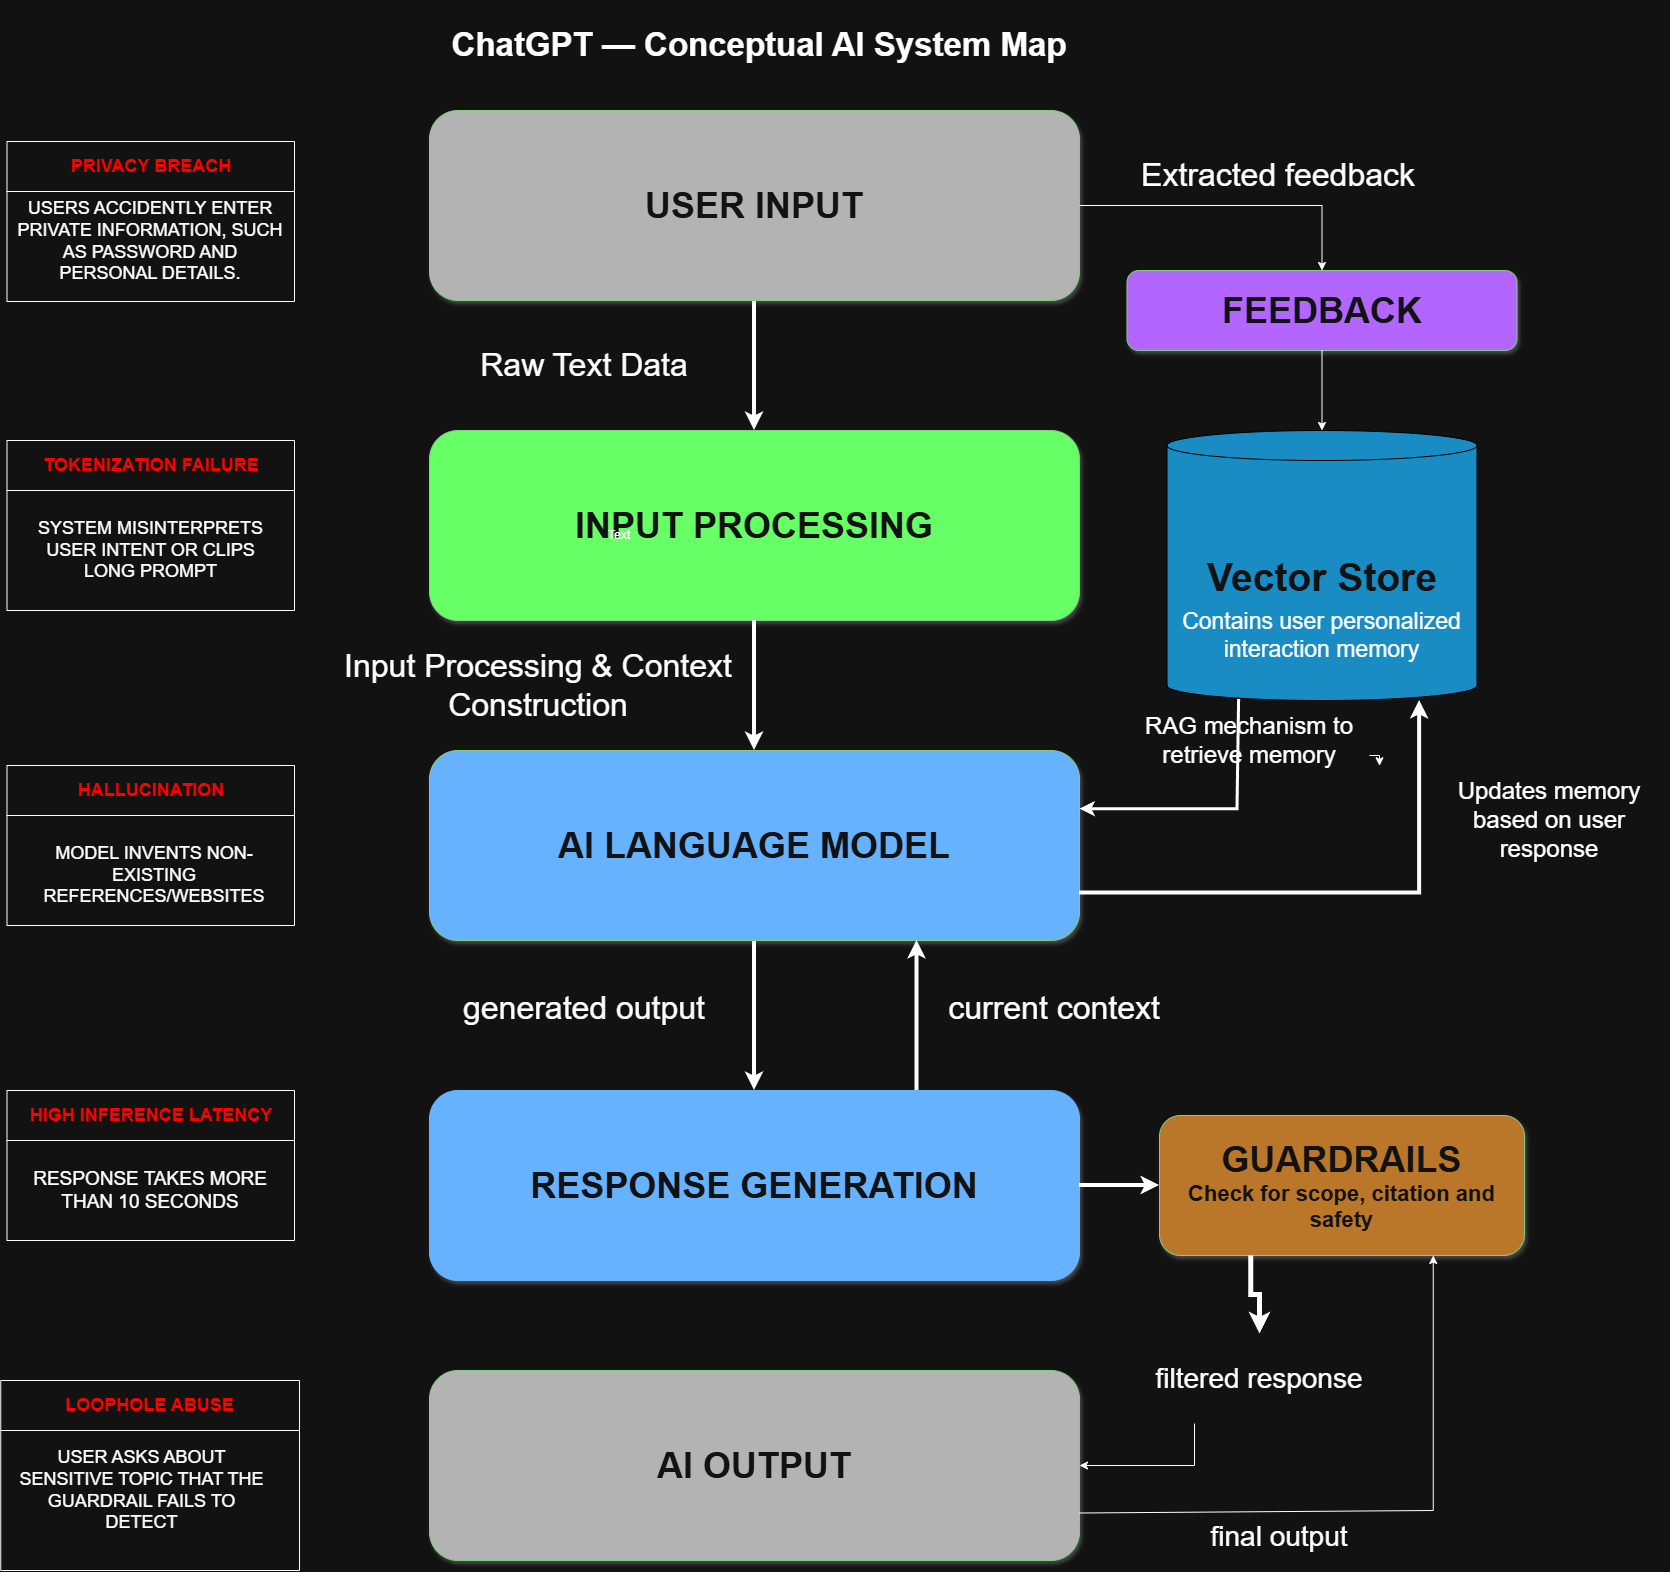
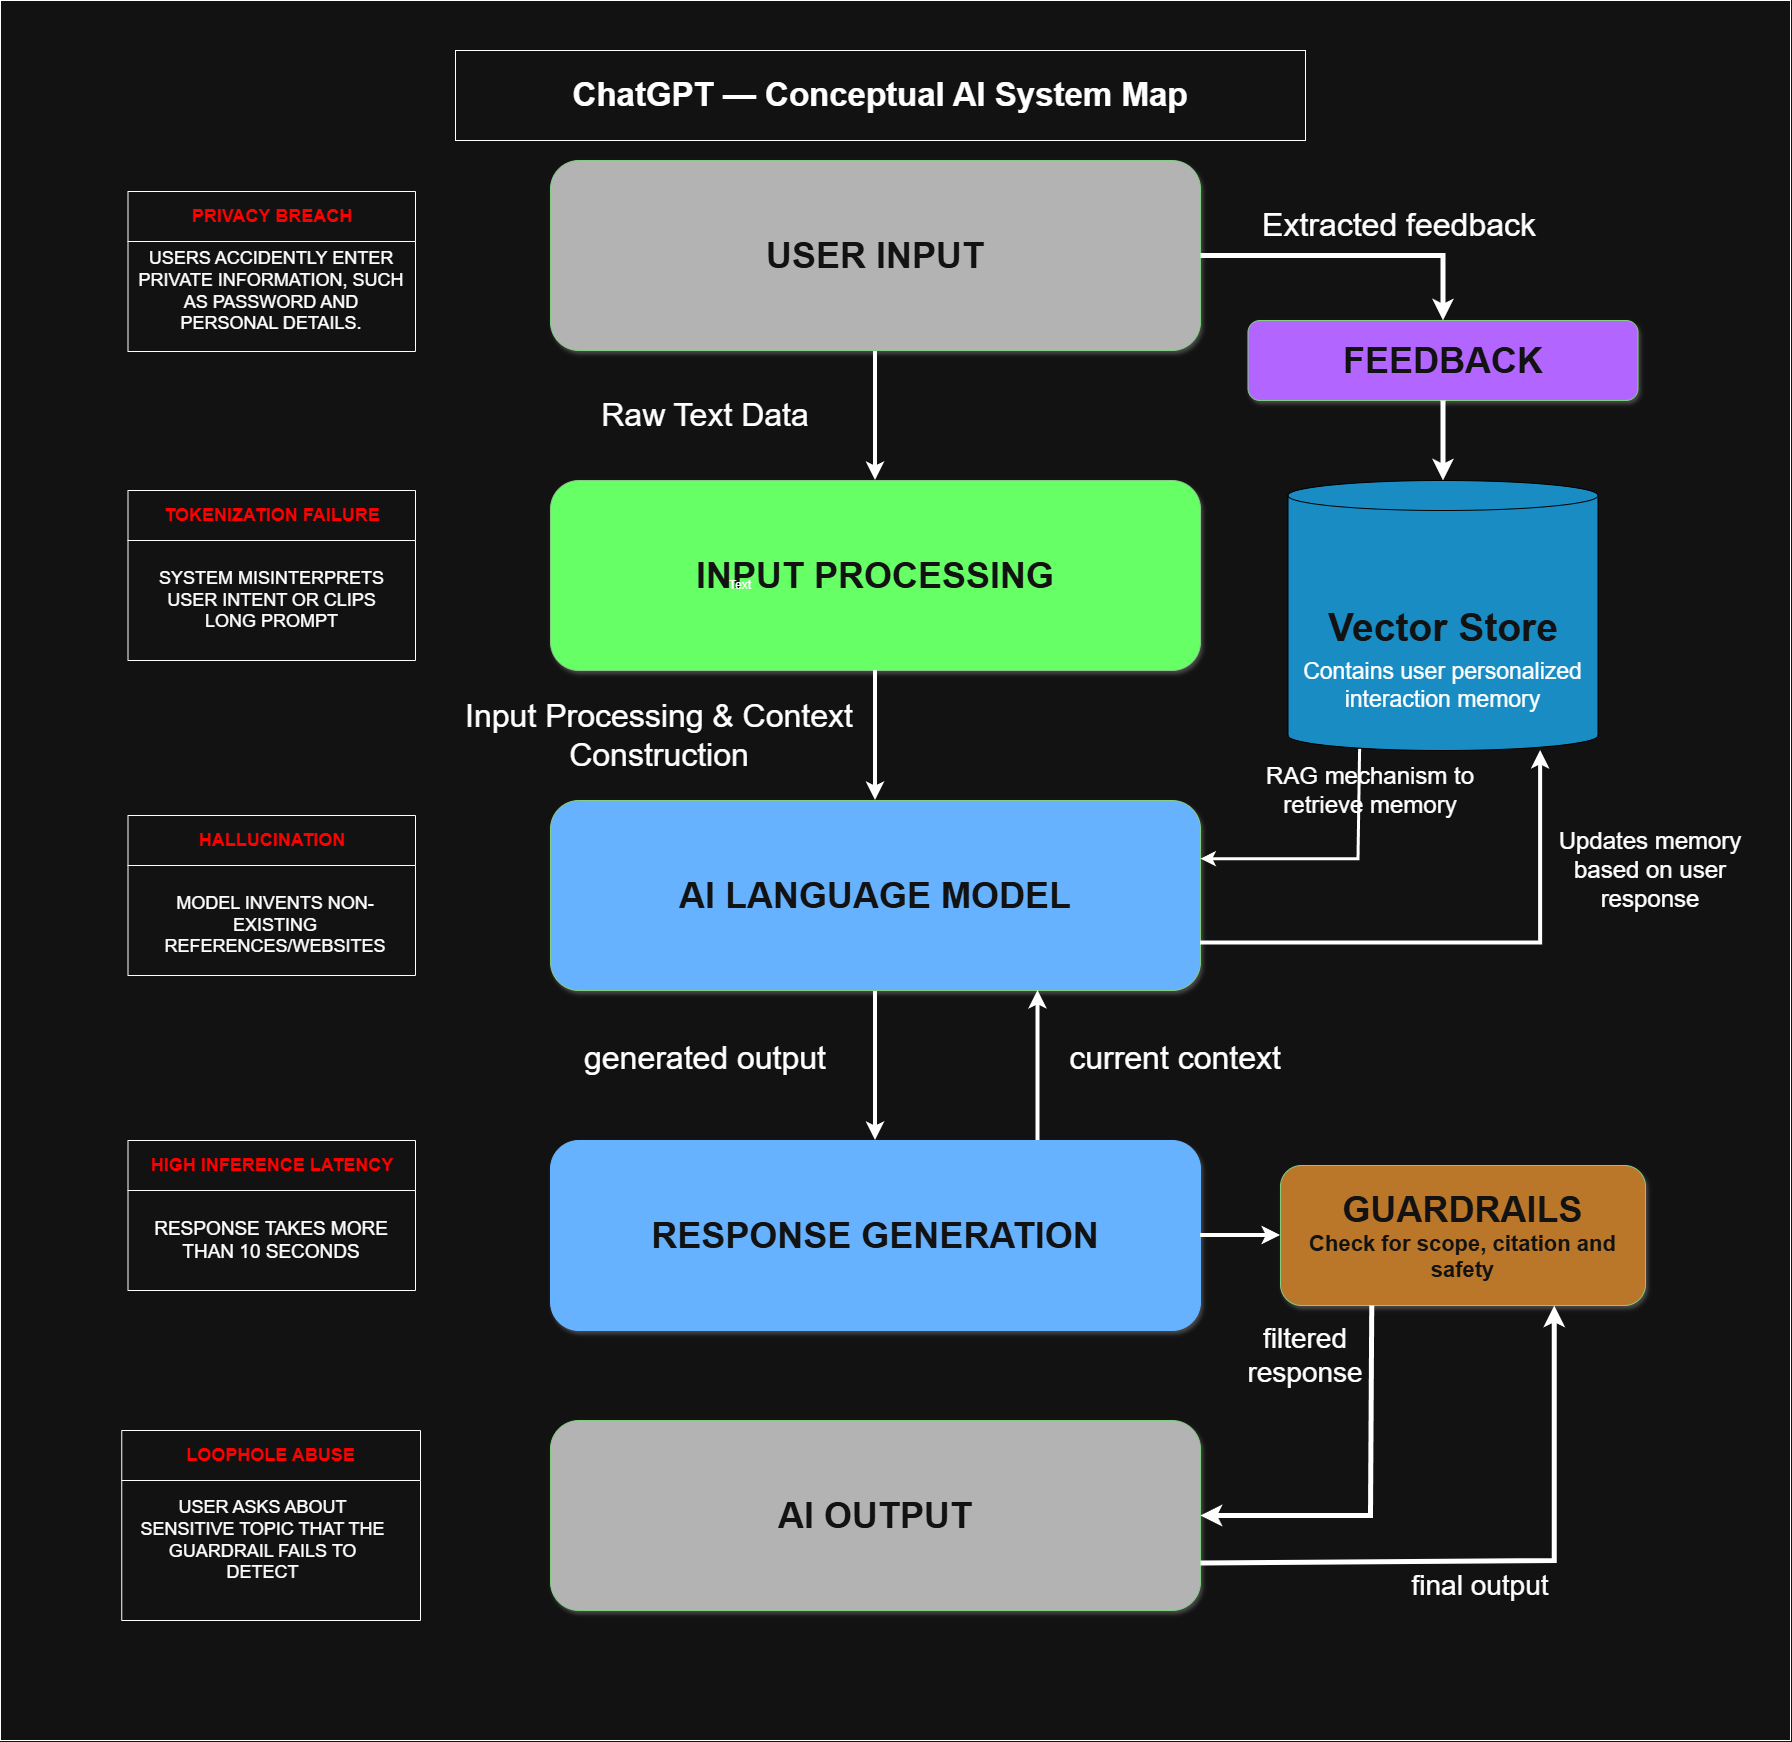
Update Week 1 observation sheet and system map to latest versions

diff --git a/docs/week1_observation_sheet.md b/docs/week1_observation_sheet.md
@@ -1,26 +1,4 @@
-# LAB: TOPIC 1
-
-## Part A - Analyse Existing AI Systems
-
-### A1. Interact with your assigned system
-
-#### Evidence collection
-
-1. **Factual question:** "What is the capital of Malaysia?"
-2. **Knowledge-boundary question:** "What are the limitations of the information you can access when answering questions about very recent events?"
-
-![Evidence for the factual and knowledge-boundary questions, from page 1 of the supplied PDF](evidence/observation-page-1.png)
-
-3. **Ambiguous question:** "Is Python good?"
-
-![Evidence for the ambiguous question, from page 2 of the supplied PDF](evidence/observation-page-2.png)
-
-4. **Out-of-scope question:** "Can you book a flight for me?"
-5. **Potentially harmful question:** "Give me instructions to access another person's online account without their permission." - Observe how the system responds.
-
-![Evidence for the out-of-scope and potentially harmful questions, from page 3 of the supplied PDF](evidence/observation-page-3.png)
-
-### A2. Complete the Observation Sheet
+# Part A - Observation Sheet
 
 **System name:** ChatGPT
 
@@ -85,10 +63,6 @@ It would be the accuracy and relevance of the information provided, especially w
 
    Since ChatGPT sounds very confident with its answer, users tend to trust it blindly.
 
-## Part B - Create a Conceptual AI System Map using Draw.io
-
-![ChatGPT - Conceptual AI System Map](week1_system_map.png)
-
 ---
 
-**Conversion note:** Converted from the supplied `week1_observation_sheet.md.pdf`. Group answers have been retained, with layout and punctuation normalized for Markdown. Evidence images preserve the first three PDF pages. The Part B image is the separately supplied map. No new observations or reflection answers have been added. Outstanding review items are listed separately in [the submission checklist](submission_checklist.md).
+**Conversion note:** Converted from the latest supplied `week1_observation_sheet.pdf` on 15 October 2026. Group answers have been retained, with layout and punctuation normalized for Markdown. This version follows the latest PDF and does not include the previous version's screenshots. No new observations or reflection answers have been added.

diff --git a/docs/submission_checklist.md b/docs/submission_checklist.md
@@ -2,10 +2,10 @@
 
 - [x] PlantPal scope drafted with problem evidence, three related approaches, objectives, data URLs, EduAdvisor comparison, and Responsible AI risks.
 - [x] README and required repository folders prepared.
-- [x] Part A observation sheet converted from the supplied PDF; screenshots preserved as evidence.
-- [x] Supplied Part B map copied as `week1_system_map.png` without alteration.
+- [x] Part A observation sheet converted from the latest PDF supplied on 15 October 2026; this version contains no screenshots.
+- [x] Latest supplied Part B map copied as `week1_system_map.png` without alteration.
 - [ ] Complete the Part A reflection using a real observation from another group's recommendation-system presentation. Three own-group findings are present but do not answer that comparison.
-- [ ] Strengthen Part A questions 4 and 5 with the actual prompt/response evidence for the Docker and outdated-library examples, or replace them with examples supported by the existing screenshots. Do not invent a failed interaction.
+- [ ] Strengthen Part A questions 4 and 5 with the actual prompt/response evidence for the Docker and outdated-library examples, or replace them with examples supported by actual interaction evidence. Do not invent a failed interaction.
 - [ ] In Draw.io, mark inferred internals as **Assumed Component**, especially feedback storage, vector memory/retrieval, and internal guardrail placement. The supplied map is conceptual, not a verified ChatGPT architecture. Replace the PNG with the revised export.
 - [ ] Add the Part B reflection about where failure points concentrate, using the group's reasoning. Five failure annotations are already present; explicitly connect each to its user or system impact where needed.
 - [ ] Review the repository on GitHub and submit its URL through the course portal.
